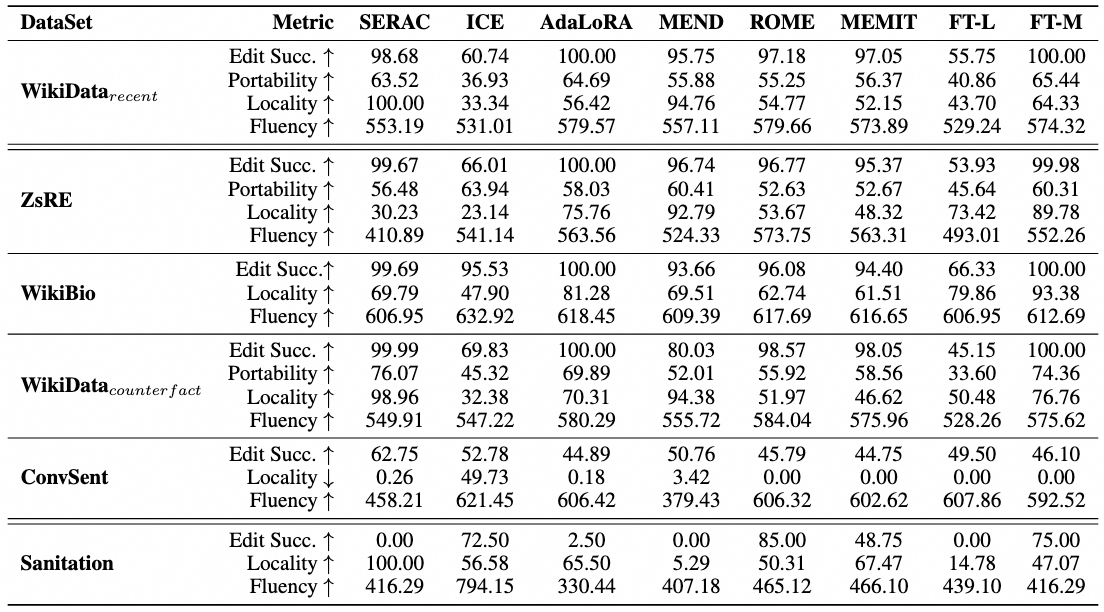
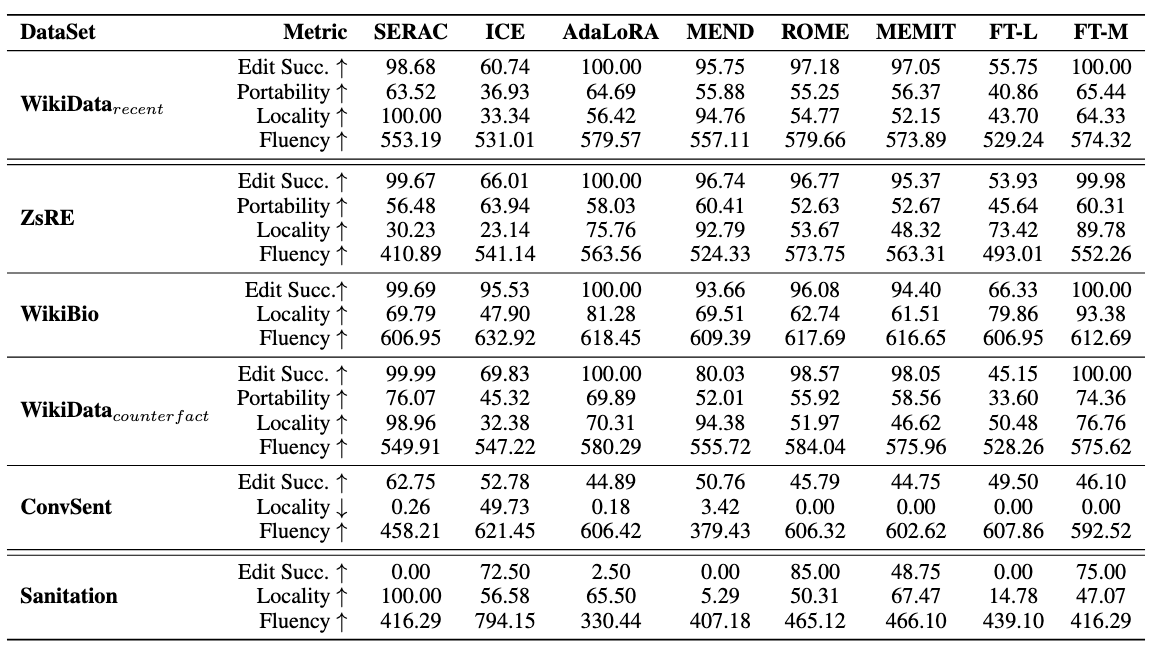
add

diff --git a/KnowEdit/index.html b/KnowEdit/index.html
@@ -8,7 +8,6 @@
         }
     </style>
   <script src="https://cdn.jsdelivr.net/npm/chart.js"></script>
-  <script src="https://kit.fontawesome.com/f8ddf9854a.js" crossorigin="anonymous"></script>
   <script>
     MathJax = {
       tex: {
@@ -58,7 +57,7 @@
 </head>
 <body>
 
-  <nav class="navbar" role="navigation" aria-label="main navigation">
+<nav class="navbar" role="navigation" aria-label="main navigation">
     <div class="navbar-brand">
         <a role="button" class="navbar-burger" aria-label="menu" aria-expanded="false">
             <span aria-hidden="true"></span>
@@ -84,38 +83,16 @@
                   More Research
                 </a>
                 <div class="navbar-dropdown">
-                  <a class="navbar-item" href="http://knowlm.zjukg.cn/" target="_blank">
-                    <b>KnowLM</b> <p style="font-size:18px; display: inline; margin-left: 5px;">🔥</p>
+                  <a class="navbar-item" href="">
+                    <b>Project A</b> <p style="font-size:18px; display: inline; margin-left: 5px;">🔥</p>
                   </a>
-                  <a class="navbar-item" href="https://github.com/zjunlp/EasyEdit" target="_blank">
-                    <b>EasyEdit</b> <p style="font-size:18px; display: inline; margin-left: 5px;">🔥</p>
+                  <a class="navbar-item" href="">
+                    Project B 
+                  <a class="navbar-item" href="">
+                    Project C
                   </a>
-                  <a class="navbar-item" href="https://zjunlp.github.io/project/EasyInstruct/" target="_blank">
-                    <b>EasyInstruct</b> <p style="font-size:18px; display: inline; margin-left: 5px;">🔥</p>
-                  </a>
-                  <a class="navbar-item" href="https://openkg-org.github.io/EasyDetect/" target="_blank">
-                    <b>EasyDetect</b> <p style="font-size:18px; display: inline; margin-left: 5px;">🔥</p>
-                  </a>
-                  <a class="navbar-item" href="https://zjunlp.github.io/ChatCell/" target="_blank">
-                    ChatCell
-                  </a>
-                  <a class="navbar-item" href="https://zjunlp.github.io/SafetyEdit/" target="_blank">
-                    SafetyEdit
-                  </a>
-                  <a class="navbar-item" href="https://zjunlp.github.io/project/KnowAgent/" target="_blank">
-                    KnowAgent
-                  </a>
-                  <a class="navbar-item" href="https://zjunlp.github.io/project/AutoAct/" target="_blank">
-                    AutoAct  
-                  </a>
-                  <a class="navbar-item" href="https://zjunlp.github.io/project/TRICE/" target="_blank">
-                    TRICE
-                  </a>
-                  <a class="navbar-item" href="https://zjunlp.github.io/project/InstructIE" target="_blank">
-                    InstructIE
-                  </a>
-                  <a class="navbar-item" href="https://zjunlp.github.io/project/IEPile" target="_blank">
-                    IEPile
+                  <a class="navbar-item" href="">
+                    Project D
                   </a>
                 </div>
             </div>
@@ -182,7 +159,7 @@
             <span class="author-block">Yunzhi Yao*<sup style="color:#007bff;">1</sup>,</span>
             <span class="author-block">Bozhong Tian*<sup style="color:#007bff;">1</sup>,</span>
             <span class="author-block">Peng Wang*<sup style="color:#007bff;">1</sup>,</span><br>
-            <span class="author-block">Shumin Deng*<sup style="color:#ed4b82;">2</sup>,</span>
+            <span class="author-block">Shumin Deng*<sup style="color:#ffac33;">2</sup>,</span>
             <span class="author-block">Mengru Wang<sup style="color:#007bff;">1</sup>,</span>
             <span class="author-block">Zekun Xi<sup style="color:#007bff;">1</sup>,</span>
             <span class="author-block">Shengyu Mao<sup style="color:#007bff;">1</sup>,</span>
@@ -191,14 +168,14 @@
             <span class="author-block">Siyuan Cheng<sup style="color:#007bff;">1</sup>,</span>
             <span class="author-block">Ziwen Xu<sup style="color:#007bff;">1</sup>,</span>
             <span class="author-block">Xin Xu<sup style="color:#007bff;">1</sup>,</span>
-            <span class="author-block">Jia-Chen Gu<sup style="color:#6fbf73;">3</sup>,</span>
-            <span class="author-block">Yong Jiang<sup style="color:#ffac33;">5</sup>,</span>
-            <span class="author-block">Pengjun Xie<sup style="color:#ffac33;">5</sup>,</span>
-            <span class="author-block">Fei Huang<sup style="color:#ffac33;">5</sup>,</span>
-            <span class="author-block">Lei Liang<sup style="color:#9b51e0;">4</sup>,</span>
-            <span class="author-block">Zhiqiang Zhang<sup style="color:#9b51e0;">4</sup>,</span>
-            <span class="author-block">Xiaowei Zhu<sup style="color:#9b51e0;">4</sup>,</span>
-            <span class="author-block">Jun Zhou<sup style="color:#9b51e0;">4</sup>,</span>
+            <span class="author-block">Jia-Chen Gu<sup style="color:#007bff;">1</sup>,</span>
+            <span class="author-block">Yong Jiang<sup style="color:#007bff;">1</sup>,</span>
+            <span class="author-block">Pengjun Xie<sup style="color:#007bff;">1</sup>,</span>
+            <span class="author-block">Fei Huang<sup style="color:#007bff;">1</sup>,</span>
+            <span class="author-block">Lei Liang<sup style="color:#007bff;">1</sup>,</span>
+            <span class="author-block">Zhiqiang Zhang<sup style="color:#007bff;">1</sup>,</span>
+            <span class="author-block">Xiaowei Zhu<sup style="color:#007bff;">1</sup>,</span>
+            <span class="author-block">Jun Zhou<sup style="color:#007bff;">1</sup>,</span>
             <span class="author-block">Huajun Chen&dagger;<sup style="color:#007bff;">1</sup></span>
           </div>
           
@@ -206,18 +183,18 @@
           
           <div class="is-size-5 publication-authors">
             <span class="author-block"><sup style="color:#007bff;">1</sup>Zhejiang University,</span>
-            <span class="author-block"><sup style="color:#ed4b82;">2</sup>National University of Singapore,</span><br>
-            <span class="author-block"><sup style="color:#6fbf73;">3</sup>Univers of California, Los Angeles,</span>
-            <span class="author-block"><sup style="color:#9b51e0;">4</sup>Ant Group</span>
-            <span class="author-block"><sup style="color:#ffac33;">5</sup>Alibaba Group</span>
+            <span class="author-block"><sup style="color:#ffac33;">2</sup>National University of Singapore,</span>
+            <span class="author-block"><sup style="color:#000000;">3</sup>Univers of California, Los Angeles,</span>
+            <span class="author-block"><sup style="color:#000000;">4</sup>Ant Group</span>
+            <span class="author-block"><sup style="color:#000000;">5</sup>Alibaba Group</span>
           </div>
 
           <br>
           <div class="is-size-5 publication-authors">
             <span class="author-block">*Equal Contribution   &dagger;Corresponding Author</span><br>
             <span class="author-block">Corresponding to:</span>
-            <span class="author-block"><a href="mailto:zhangninyu@zju.edu.cn">zhangningyu@zju.edu.cn</a>,</span>
-            <span class="author-block"><a href="mailto:yyztodd@zju.edu.cn">yyztodd@zju.edu.cn</a></span>
+            <span class="author-block"><a href="mailto:pengwang@in.ai">zhangninyu@zju.edu.cn</a>,</span>
+            <span class="author-block"><a href="mailto:su.809@osu.edu">yyztodd@zju.edu.cn</a>,</span>
           </div>
           
 
@@ -270,7 +247,7 @@
                   <span class="icon">
                       <i class="fab fa-github"></i>
                   </span>
-                  <span>Toolkit</span>
+                  <span>Code</span>
                   </a>
               </span>
               <!-- Demo Link. -->
@@ -284,16 +261,15 @@
                 </a>
               </span> -->
               <!-- Twitter Link. -->
-              <span class="link-block">
-                <a href="https://twitter.com/zxlzr/status/1744612116039180343"
+              <!-- <span class="link-block">
+                <a href="https://twitter.com/zxlzr/status/1679035378072952832"
                    class="external-link button is-normal is-rounded is-dark">
-                   <span class="icon has-text-white">
-                    <i class="fa-brands fa-x-twitter"></i>
-                      <!-- <p style="font-size:18px">🌐</p> -->
+                  <span class="icon">
+                      <p style="font-size:18px">🌐</p>
                   </span>
                   <span>Twitter</span>
                 </a>
-              </span>
+              </span> -->
             </div>
 
           </div>
@@ -319,7 +295,10 @@
         <h2 class="title is-3" id="News">🔔News</h2>
         <div class="content has-text-justified">
           <p>
-            <b>[2024-01-03]: We release a new paper:"<a href="https://arxiv.org/abs/2401.01286"><b>A Comprehensive Study of Knowledge Editing for Large Language Models</b></a>" with a new benchmark <a href="https://huggingface.co/datasets/zjunlp/KnowEdit"><b>KnowEdit</b></a>! We are looking forward to any comments or discussions on this topic :)</b>
+            <b>[2024-11-19]: We update the Table 4 results in the paper "<a href="https://arxiv.org/abs/2401.01286"><b>A Comprehensive Study of Knowledge Editing for Large Language Models</b></a>" after optimizing certain methods (related to AdaLoRA) and fixing computational bugs (related to ROME and MEMIT) in the EasyEdit. These improvements have led to better results than before. 
+              We further add several new literatures on knowledge mechanism, steering, memory, and AI safety, and discuss the current status of this field. We will continue updating this paper and welcome everyone to discuss and exchange ideas :)</b>
+              <br>
+            <b>[2024-01-03]: We release a new paper: "<a href="https://arxiv.org/abs/2401.01286"><b>A Comprehensive Study of Knowledge Editing for Large Language Models</b></a>" with a new benchmark <a href="https://huggingface.co/datasets/zjunlp/KnowEdit"><b>KnowEdit</b></a>!</b>
           </p>
       </div>      
         <h2 class="title is-3" id="Abstract">Abstract</h2>
@@ -463,7 +442,7 @@
             </p>
           </div>
           <div class="content has-text-centered">
-            <img src="static/images/table_Comparison.jpg" alt="error distribution" width="80%">
+            <img src="static/images/table_Comparison.png" alt="error distribution" width="80%">
             <p>
               Comparison between representative approaches of knowledge editing for LLMs.
               <b>No Training</b> refers to the methods that do not require additional training; 
@@ -1102,7 +1081,7 @@
       <div class="column is-8">
         <div class="content">
           <p>
-            This website is website adapted from <a href="https://mathvista.github.io/">MathVista</a> and <a href="https://mmmu-benchmark.github.io/">MMMU</a>, licensed under a <a rel="license"
+            This website is adapted from <a href="https://mathvista.github.io/">MathVista</a> and <a href="https://mmmu-benchmark.github.io/">MMMU</a>, licensed under a <a rel="license"
                                                 href="http://creativecommons.org/licenses/by-sa/4.0/">Creative
             Commons Attribution-ShareAlike 4.0 International License</a>.
           </p>
